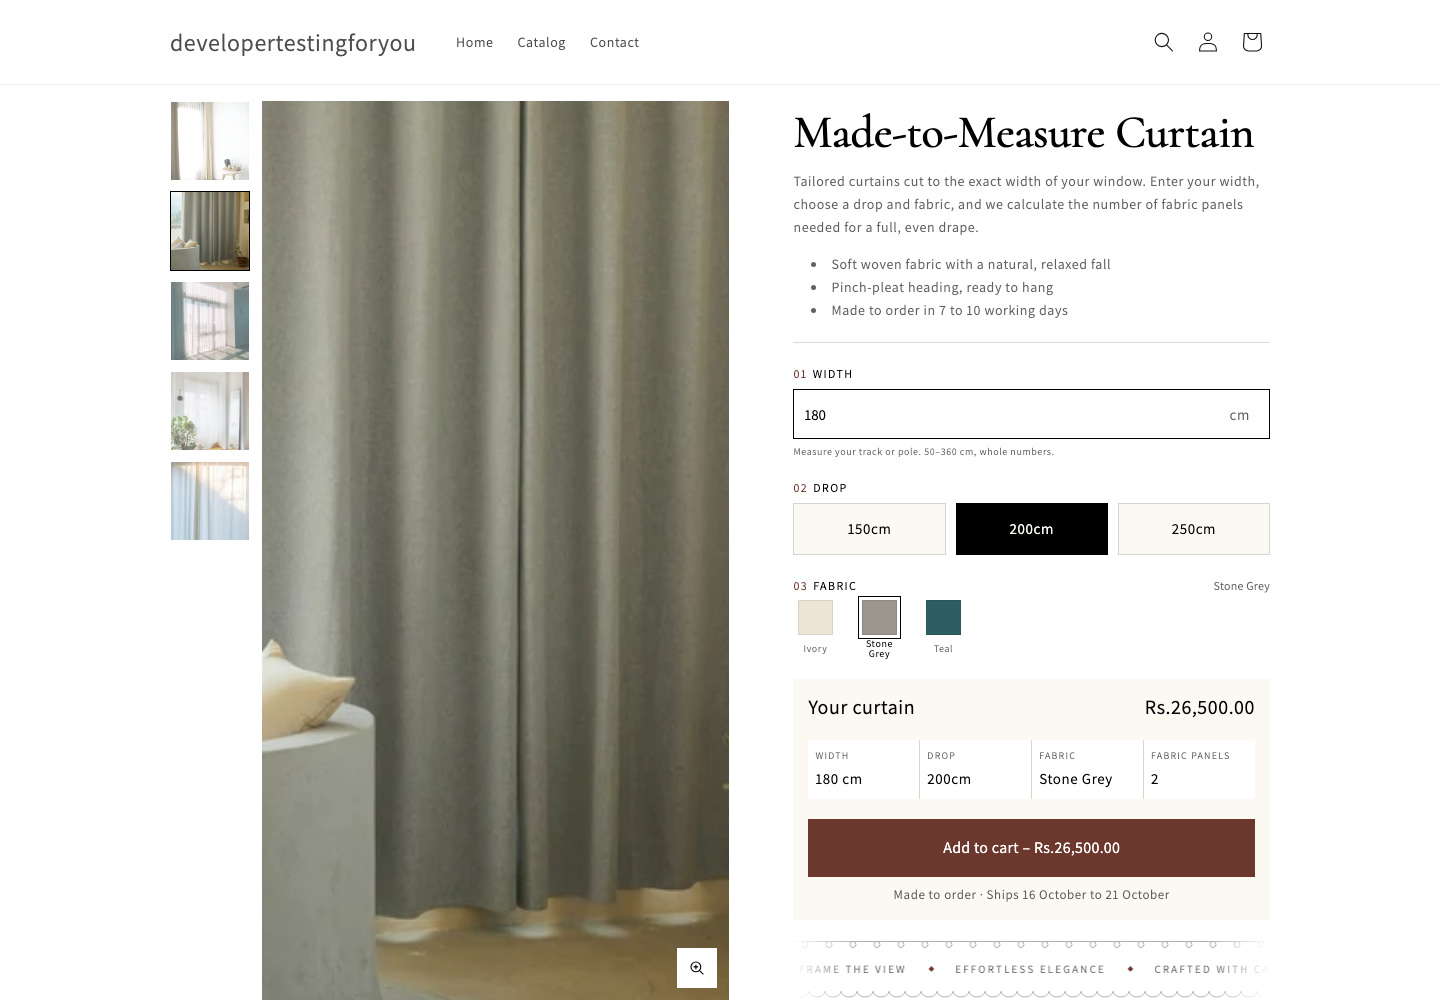
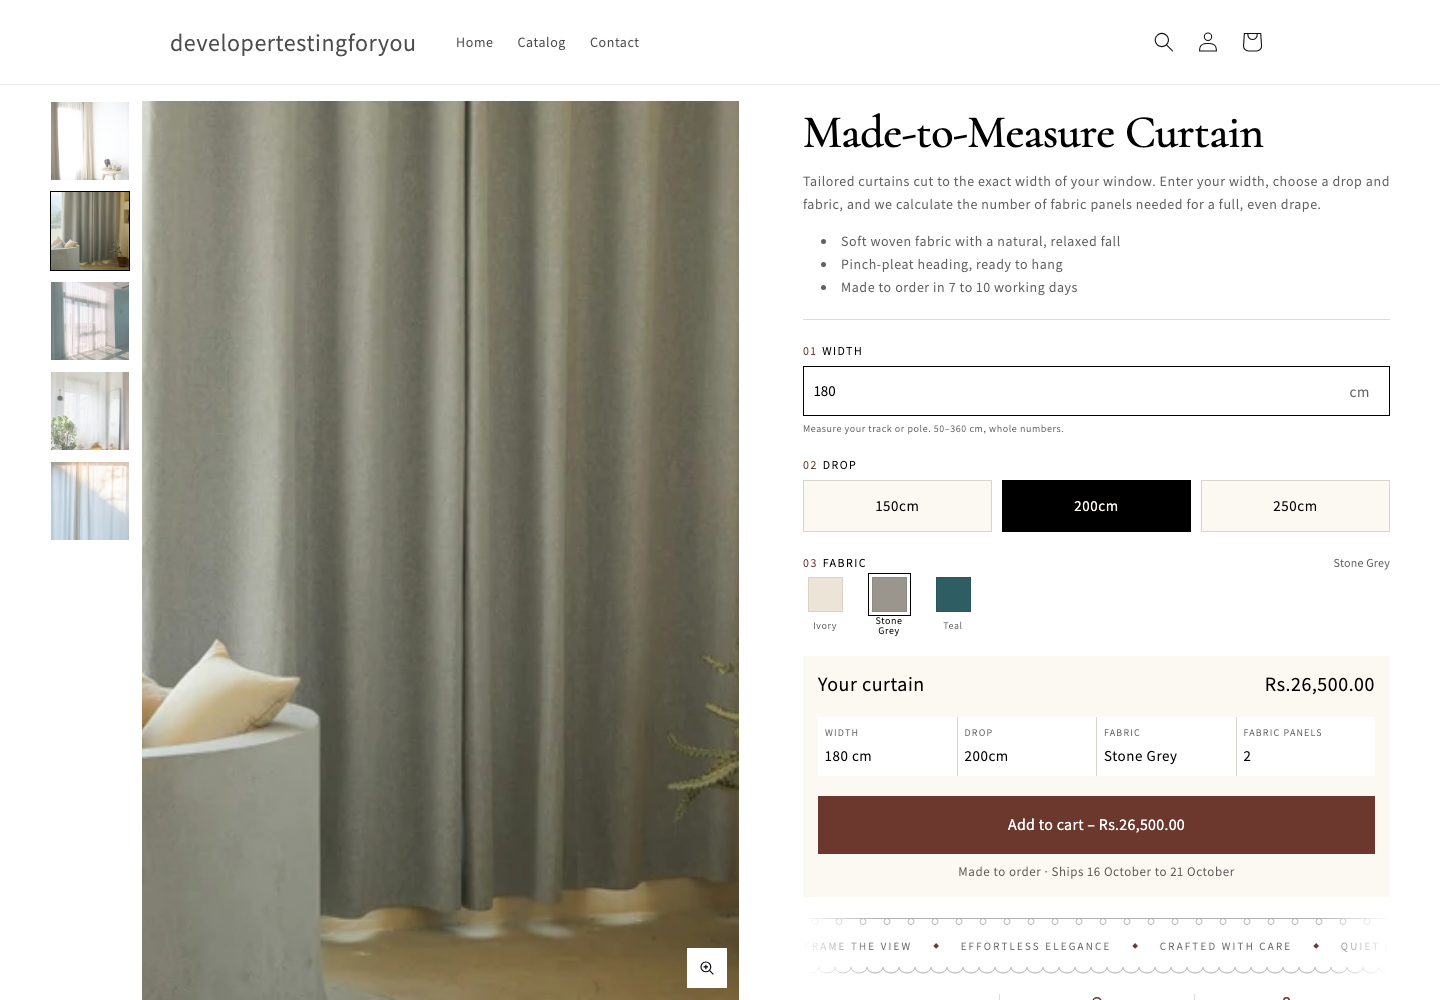
Cap the configurator container at 1440px
A new "Container max width" setting replaces Dawn's page-width class on
the section, since the theme setting only moves in 100px steps.

diff --git a/assets/curtain-configurator.css b/assets/curtain-configurator.css
@@ -15,6 +15,8 @@ curtain-configurator {
   grid-template-columns: minmax(0, 1.08fr) minmax(0, 0.92fr);
   gap: var(--cc-gap);
   align-items: start;
+  max-width: var(--cc-max-width);
+  margin-inline: auto;
   padding-inline: 5rem;
 }
 

diff --git a/README.md b/README.md
@@ -247,20 +247,20 @@ The step numbers 01, 02 and 03 come from a CSS counter, so they follow the block
 **Image zoom.** On desktop, hovering the main image shows a 2.5x magnified copy that follows the pointer. On touch screens, a tap zooms in at that point, dragging pans, and a second tap zooms out. A magnifier button in the corner toggles zoom for keyboard and touch users, and Escape closes it. The magnified copy is a 2400px version of the image, loaded only when zoom is first used.
 - **Configuration:** default width, and the names of the Color, Drop and Panels options.
 - **Style:** heading font, background, alternative background for the summary card, inputs and image backdrop, text, accent, and the button hover curtain color.
-- **Spacing:** top and bottom padding, and the column gap.
+- **Spacing:** container max width (1440px by default), top and bottom padding, and the column gap. The section sets its own width instead of using the theme's page width, which only allows 100px steps.
 
 The section only appears on product templates. It shows a setup notice in the editor if the metafield or the options are missing.
 
 ## Testing
 
-`tests/e2e/run.mjs` runs 61 checks against a live preview:
+`tests/e2e/run.mjs` runs 62 checks against a live preview:
 
 - **Rendering:** no Panels control on the page, and no Dawn product form.
 - **Pricing:** price and panel count at every tier boundary, from 50 to 360 cm.
 - **Validation:** inline errors for 49, 361, 180.5 and an empty field.
 - **Delivery dates:** the note shows the dates 7 and 10 working days from today.
 - **Interaction:** color swaps the gallery image, and arrow keys move through the swatches.
-- **Layout:** thumbnails to the left of the main image, the main image filling the screen below the header, three collapsible rows under the button, zero layout shift, and no horizontal overflow at tablet and mobile widths.
+- **Layout:** a 1440px container on wide screens, thumbnails to the left of the main image, the main image filling the screen below the header, three collapsible rows under the button, zero layout shift, and no horizontal overflow at tablet and mobile widths.
 - **Interaction:** rows start closed and only one opens at a time, and the button curtain covers the button on hover.
 - **Trust badges:** three badges sit between the add to cart card and the rows.
 - **Image:** the badge sits on the first image only, hover zoom follows the pointer and ends on leave, and the zoom button works from the keyboard.
